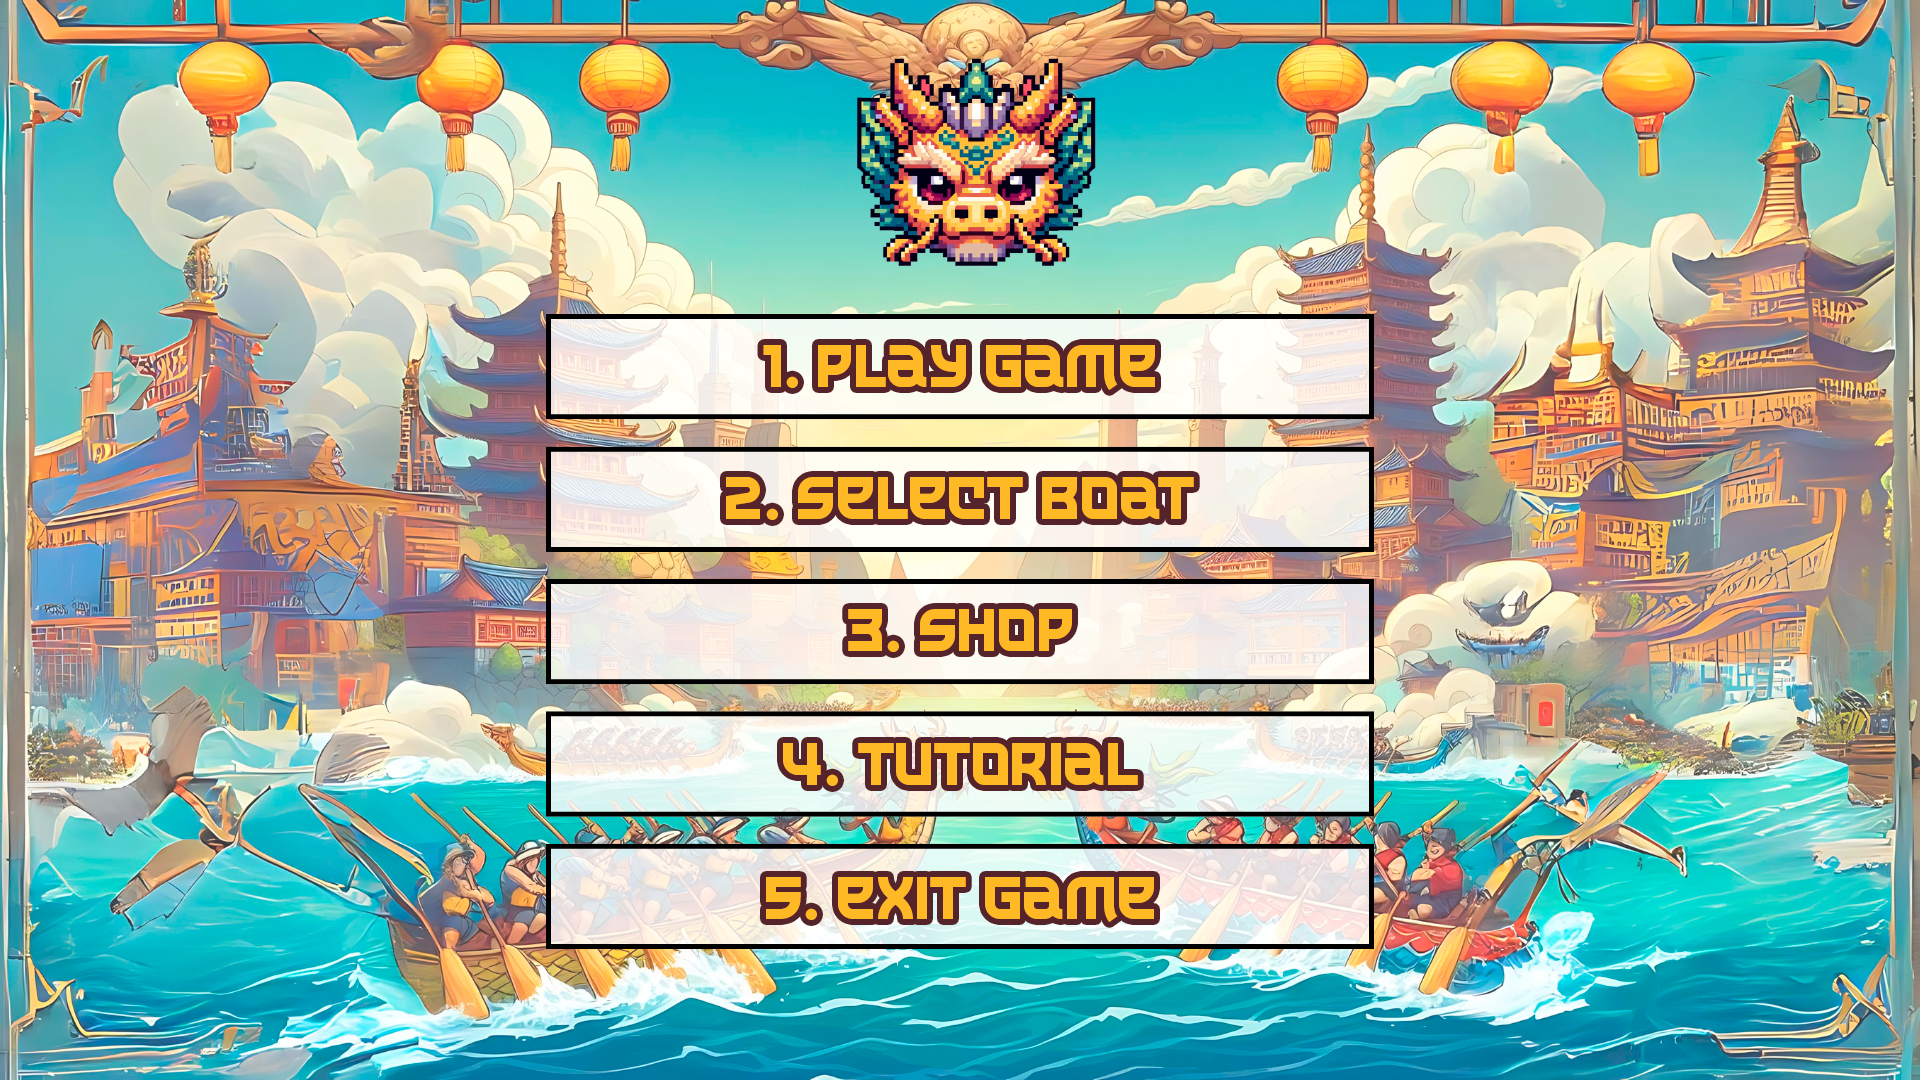
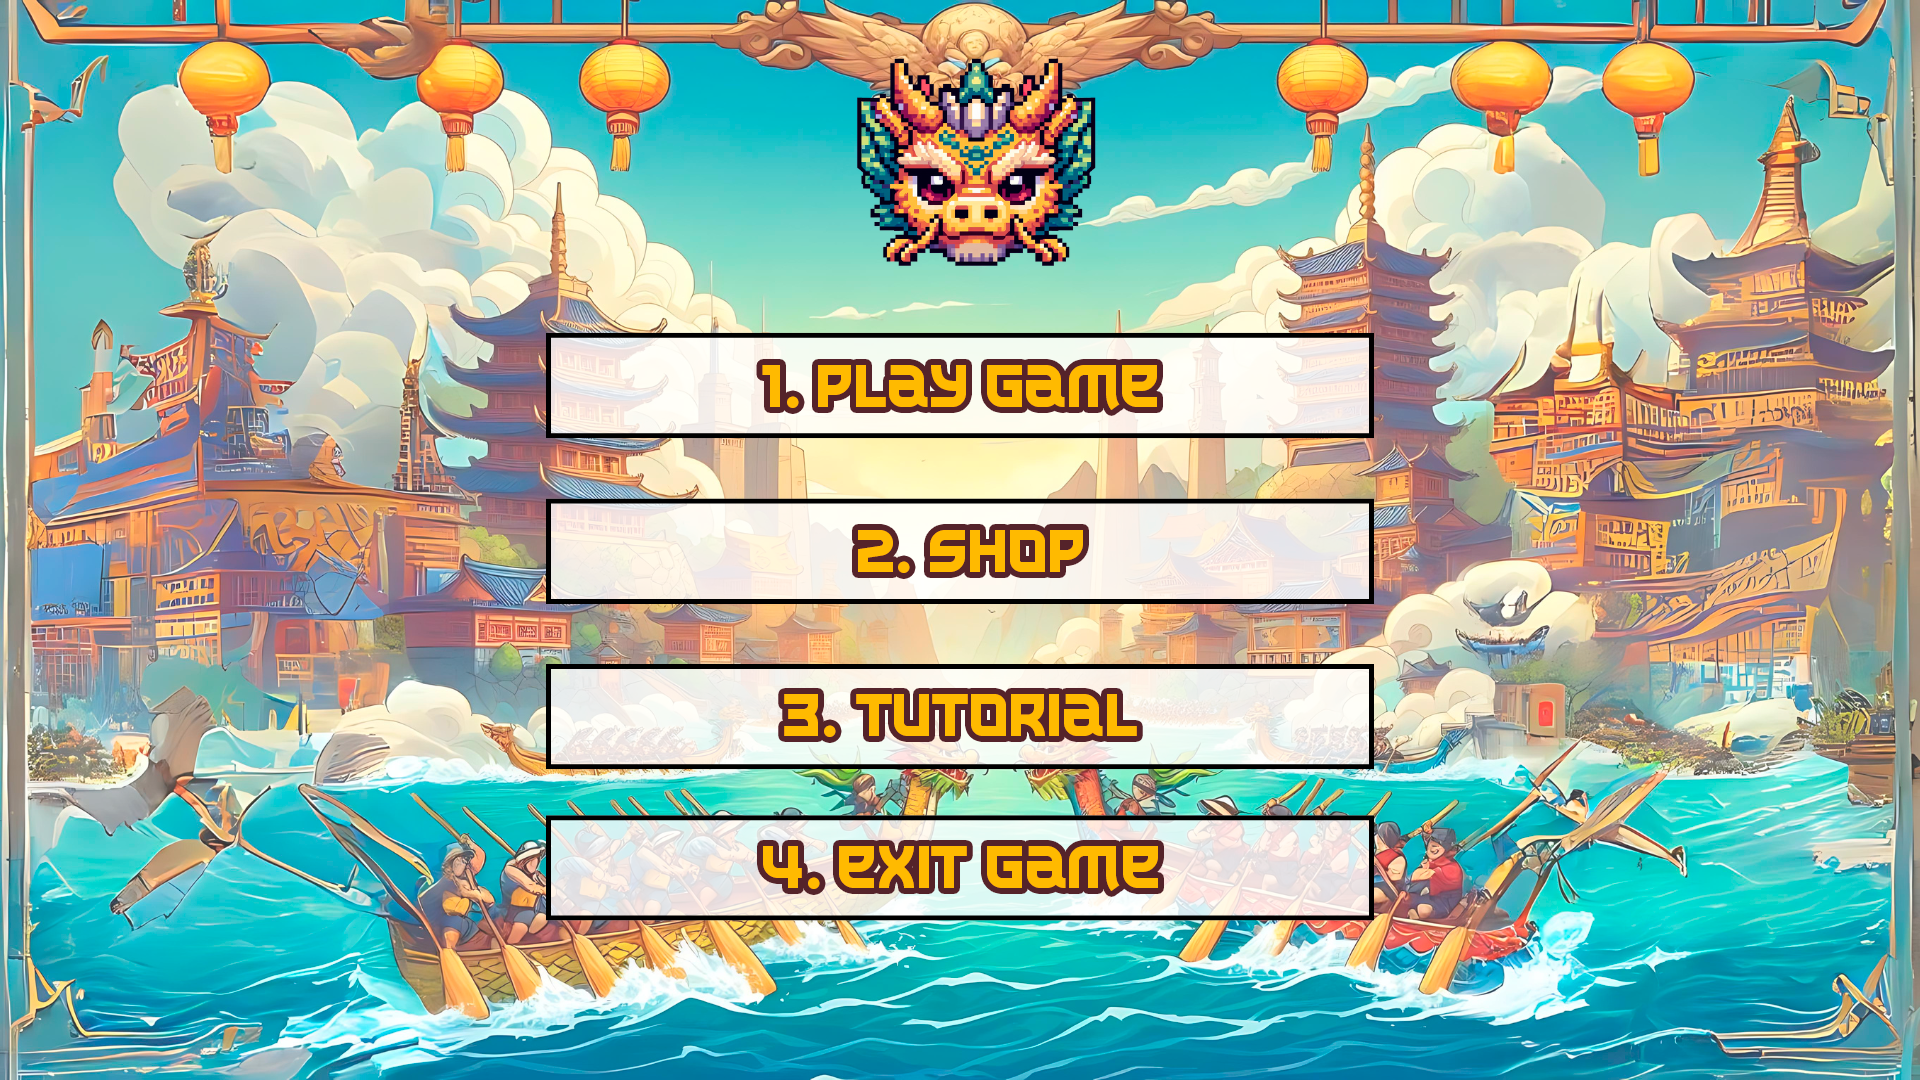
Debugging vfx and sounds and more things

Changed region(s): [[0.2812, 0.275, 0.7188, 0.8861]]

diff --git a/core/src/com/introduction/rowing/MyRowing.java b/core/src/com/introduction/rowing/MyRowing.java
@@ -287,12 +287,12 @@ public class MyRowing extends ApplicationAdapter {
         batch.end();
     }
 
-    private  void renderTutorial() {
+    private  void renderTutorial(float stateTime) {
         double tutorial_scaling = 0.7;
-        if (stateTime < LEG_DURATION) {
-            batch.draw(keysTutorialTexture, ((float) WINDOW_WIDTH / 2) - ((float) (int) (keysTutorialTexture.getWidth() * tutorial_scaling) / 2), (float) WINDOW_HEIGHT / 4, (int) (keysTutorialTexture.getWidth() * tutorial_scaling), (int) (keysTutorialTexture.getHeight() * tutorial_scaling));
+        if (stateTime < 5) {
+            batch.draw(keysTutorialTexture, ((float) WINDOW_WIDTH / 3) - ((float) (int) (keysTutorialTexture.getWidth() * tutorial_scaling) / 2), (float) WINDOW_HEIGHT / 4, (int) (keysTutorialTexture.getWidth() * tutorial_scaling), (int) (keysTutorialTexture.getHeight() * tutorial_scaling));
         } else if (stateTime >= 5 && stateTime < 10) {
-            batch.draw(UITutorialTexture, 0, (float) WINDOW_HEIGHT / 3, (int) (UITutorialTexture.getWidth() * tutorial_scaling), (int) (UITutorialTexture.getHeight() * tutorial_scaling));
+            batch.draw(UITutorialTexture, ((float) WINDOW_WIDTH / 3) - ((float) (int) (keysTutorialTexture.getWidth() * tutorial_scaling) / 2), (float) WINDOW_HEIGHT / 4, (int) (keysTutorialTexture.getWidth() * tutorial_scaling), (int) (keysTutorialTexture.getHeight() * tutorial_scaling));
         }
     }
 
@@ -421,7 +421,7 @@ public class MyRowing extends ApplicationAdapter {
             this.getPlayerBoat().decreaseInvulnerabilityTime();
         }
         if (gameSubState == GameSubState.TUTORIAL) {
-            renderTutorial();
+            renderTutorial(stateTime);
         }
         // The game change between substates depending on the leg number
         if (lanes != null && boatsPosition.size() == lanes.length) {
@@ -505,9 +505,11 @@ public class MyRowing extends ApplicationAdapter {
                 System.out.println("MINIGAME SATATE " + minigameStage);
                 boolean correctTileClicked = checkCorrectTileClicked();
                 if (correctTileClicked) {
+                    win.play();
                     dataManager.setBalance(dataManager.getBalance() + money);
                     //batch.draw(correct, WINDOW_WIDTH, WINDOW_HEIGHT , correct.getWidth(), correct.getHeight());
-                }
+                } else
+                    lose.play();
                 miniGameState = MiniGameState.NOT_STARTED;
                 if (minigameStage >= NUMBER_OF_MINIGAMES) {
                     miniGameState = MiniGameState.SUM_SCREEN;
@@ -526,7 +528,7 @@ public class MyRowing extends ApplicationAdapter {
                 break;
             default:
                 break;
-    }
+        }
         if (miniGameState != MiniGameState.SUM_SCREEN) {
             renderDragonPlayer();
         }
@@ -792,6 +794,7 @@ public class MyRowing extends ApplicationAdapter {
         font.draw(batch, "Fatigue: " + shopBoat.getFatigue(), (float) (WINDOW_WIDTH*0.63), (float) (WINDOW_HEIGHT*0.39));
         if (!shopBoat.isUnlocked()) {
             font.draw(batch, "Price: " + shopBoat.getPrice(), (float) (WINDOW_WIDTH*0.72), (float) (WINDOW_HEIGHT*0.21));
+            font.draw(batch, "Press enter to unlock", (float) (WINDOW_WIDTH*0.69), (float) (WINDOW_HEIGHT*0.17));
         } else {
             font.draw(batch, "Unlocked", (float) (WINDOW_WIDTH*0.63), (float) (WINDOW_HEIGHT*0.25));
             if (shopBoat.isSelected())
@@ -811,7 +814,7 @@ public class MyRowing extends ApplicationAdapter {
 
         this.renderShopLayout();
 
-        batch.draw(powerupTexture,(float) (WINDOW_WIDTH*0.20), (float) (WINDOW_HEIGHT*0.38),(float) (powerupTexture.getWidth()*0.25), (float) (powerupTexture.getHeight()*0.25));
+        batch.draw(powerupTexture,(float) (WINDOW_WIDTH*0.20), (float) (WINDOW_HEIGHT*0.50),(float) (powerupTexture.getWidth()*0.25), (float) (powerupTexture.getHeight()*0.25));
 
         font.draw(batch, powerup.getName(), (float) (WINDOW_WIDTH*0.22), (float) (WINDOW_HEIGHT*0.18));
         font.draw(batch, "Description: " + powerup.getDescription(), (float) (WINDOW_WIDTH*0.63), (float) (WINDOW_HEIGHT*0.6));

diff --git a/core/src/com/introduction/rowing/MiniGameInputProcessor.java b/core/src/com/introduction/rowing/MiniGameInputProcessor.java
@@ -16,18 +16,26 @@ public class MiniGameInputProcessor extends InputProcessor {
     public boolean keyDown(int keycode) {
         switch (keycode) {
             case Input.Keys.UP:
+            case Input.Keys.W:
+            case Input.Keys.K:
                 this.direction = 0;
                 this.moving = true;
                 break;
             case Input.Keys.LEFT:
+            case Input.Keys.A:
+            case Input.Keys.H:
                 this.direction = 1;
                 this.moving = true;
                 break;
             case Input.Keys.DOWN:
+            case Input.Keys.S:
+            case Input.Keys.J:
                 this.direction = 2;
                 this.moving = true;
                 break;
             case Input.Keys.RIGHT:
+            case Input.Keys.D:
+            case Input.Keys.L:
                 this.direction = 3;
                 this.moving = true;
                 break;
@@ -49,15 +57,7 @@ public class MiniGameInputProcessor extends InputProcessor {
     public boolean keyUp(int keycode) {
 
         // Handle key up events
-        switch (keycode) {
-            case Input.Keys.LEFT:
-            case Input.Keys.RIGHT:
-            case Input.Keys.UP:
-            case Input.Keys.DOWN:
-                this.moving = false;
-                break;
-
-        }
+        this.moving = false;
         return false;
     }
 }

diff --git a/core/src/com/introduction/rowing/GameInputProcessor.java b/core/src/com/introduction/rowing/GameInputProcessor.java
@@ -17,18 +17,26 @@ public class GameInputProcessor extends InputProcessor {
 	public boolean keyDown(int keycode) {
 		switch (keycode) {
 			case Input.Keys.UP:
+			case Input.Keys.W:
+			case Input.Keys.K:
 				this.direction = 0;
 				this.moving = true;
 				break;
 			case Input.Keys.LEFT:
+			case Input.Keys.A:
+			case Input.Keys.H:
 				this.direction = 1;
 				this.moving = true;
 				break;
 			case Input.Keys.DOWN:
+			case Input.Keys.S:
+			case Input.Keys.J:
 				this.direction = 2;
 				this.moving = true;
 				break;
 			case Input.Keys.RIGHT:
+			case Input.Keys.D:
+			case Input.Keys.L:
 				this.direction = 3;
 				this.moving = true;
 				break;
@@ -45,17 +53,8 @@ public class GameInputProcessor extends InputProcessor {
 
 	@Override
 	public boolean keyUp(int keycode) {
-
 		// Handle key up events
-		switch (keycode) {
-			case Input.Keys.LEFT:
-			case Input.Keys.RIGHT:
-			case Input.Keys.UP:
-			case Input.Keys.DOWN:
-				this.moving = false;
-				break;
-
-		}
+		this.moving = false;
 		return false;
 	}
 }

diff --git a/core/src/com/introduction/rowing/ShopInputProcessor.java b/core/src/com/introduction/rowing/ShopInputProcessor.java
@@ -13,10 +13,14 @@ public class ShopInputProcessor extends InputProcessor {
     public boolean keyUp(int keycode) {
         switch (keycode) {
             case Input.Keys.LEFT:
+            case Input.Keys.H:
+            case Input.Keys.A:
                 myRowing.previousBoat();
                 myRowing.previousShopPowerup();
                 break;
             case Input.Keys.RIGHT:
+            case Input.Keys.L:
+            case Input.Keys.D:
                 myRowing.nextBoat();
                 myRowing.nextShopPowerup();
                 break;
@@ -36,6 +40,10 @@ public class ShopInputProcessor extends InputProcessor {
                 break;
             case Input.Keys.DOWN:
             case Input.Keys.UP:
+            case Input.Keys.J:
+            case Input.Keys.K:
+            case Input.Keys.W:
+            case Input.Keys.S:
                 InputProcessor.switchGameSubState();
                 break;
 

diff --git a/core/src/com/introduction/rowing/LobbyInputProcessor.java b/core/src/com/introduction/rowing/LobbyInputProcessor.java
@@ -15,14 +15,15 @@ public class LobbyInputProcessor extends InputProcessor {
                 setGameSubState(GameSubState.RACE_LEG);
                 break;
             case Input.Keys.NUM_2:
-                setGameState(GameState.PLAY_MINI_GAME);
-                break;
-            case Input.Keys.NUM_3:
                 setGameState(GameState.ENTER_SHOP);
                 break;
-            case Input.Keys.NUM_4:
+            case Input.Keys.NUM_3:
                 setGameState(GameState.PLAY_GAME);
                 setGameSubState(GameSubState.TUTORIAL);
+                break;
+            case Input.Keys.NUM_4:
+            case Input.Keys.ESCAPE:
+                System.exit(0);
                 break;
 
         }

diff --git a/core/src/com/introduction/rowing/Constants.java b/core/src/com/introduction/rowing/Constants.java
@@ -13,7 +13,7 @@ public class Constants {
     public static final int PROGRESSION_BAR_OFFSET = 4;
     public static final String ACCELERATION_BAR_TEXT = "Acceleration Bar";
     public static final int NUMBER_OF_LEGS = 3;
-    public static final int LEG_DURATION = 60;
-    public static final int NUMBER_OF_MINIGAMES = 1;
+    public static final int LEG_DURATION = 0;
+    public static final int NUMBER_OF_MINIGAMES = 7;
     public static final double BOAT_WIDTH_FRACTION = 0.3;
 }
